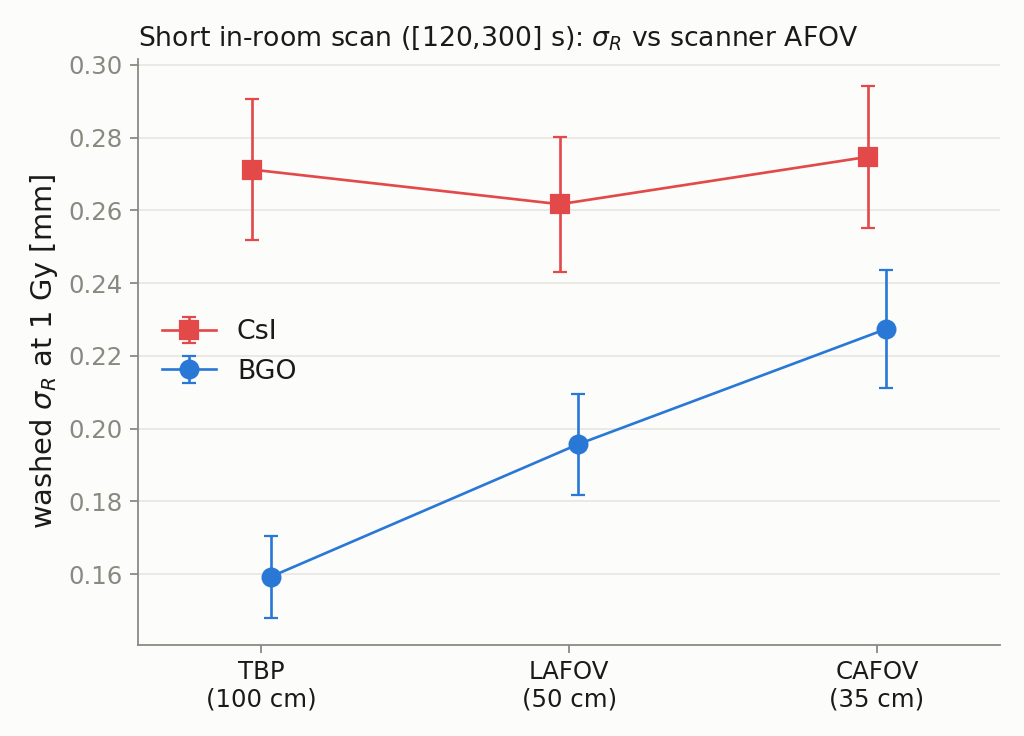
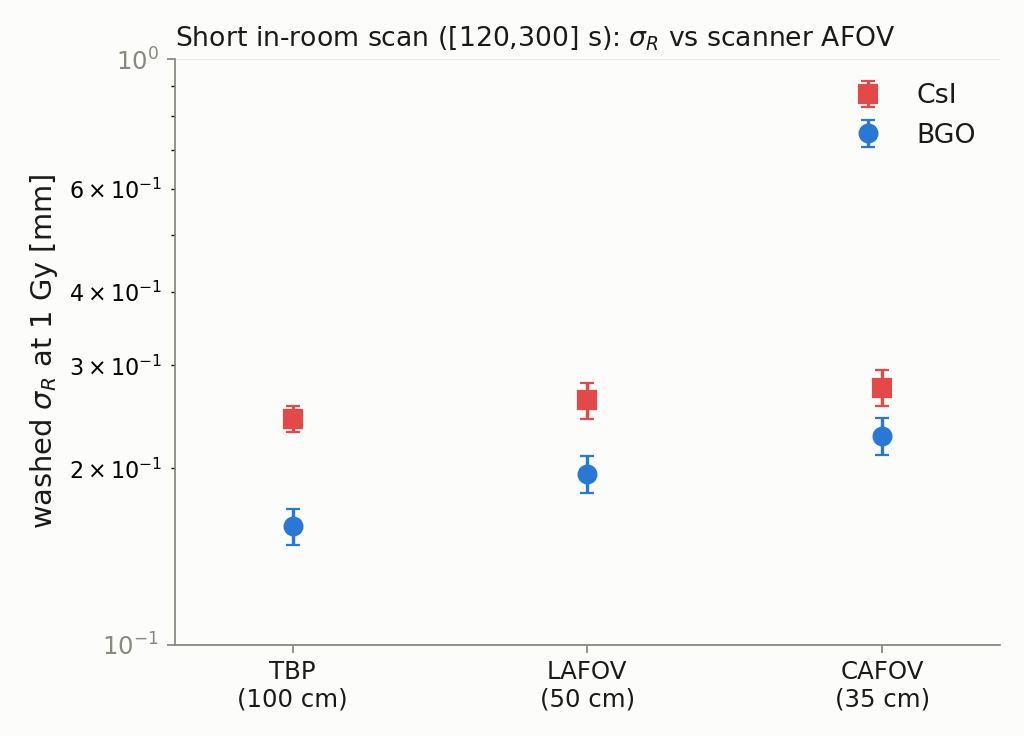
tools: washed short-scan sigma_R-vs-AFOV plot and outputs
Add plot_washed_shortscan_afov.py and its figure/data outputs (ring CsI
washout + Grogg sigma_R tables for the 120-300 s window).

diff --git a/tools/plot_washed_shortscan_afov.py b/tools/plot_washed_shortscan_afov.py
@@ -66,16 +66,17 @@ def main():
             s.append(v)
             bands.append(b)
         s = np.array(s)
-        dx = -0.03 if col is RED else 0.03
-        ax.errorbar(np.array(xs) + dx, s, yerr=s * np.array(bands), fmt=mk + "-",
-                    ms=8, lw=1.2, color=col, capsize=3, label=lab)
+        ax.errorbar(np.array(xs), s, yerr=s * np.array(bands), fmt=mk,
+                    ls="none", ms=8, color=col, capsize=3, label=lab)
     ax.set_xticks(xs)
     ax.set_xticklabels([lab for _, lab in SIZES], color=INK, fontsize=11)
     ax.set_xlim(-0.4, 2.4)
+    ax.set_yscale("log")
+    ax.set_ylim(0.1, 1.0)
     ax.set_ylabel("washed $\\sigma_R$ at 1 Gy [mm]", color=INK, fontsize=13)
     ax.set_title("Short in-room scan ([120,300] s): $\\sigma_R$ vs scanner AFOV",
                  color=INK, fontsize=12, loc="left")
-    ax.legend(frameon=False, fontsize=12, labelcolor=INK, loc="center left")
+    ax.legend(frameon=False, fontsize=12, labelcolor=INK, loc="upper right")
     fig.tight_layout()
 
     d = os.path.join(scenario_out(SCENARIO), TOPOLOGY, "comparison", "figures")